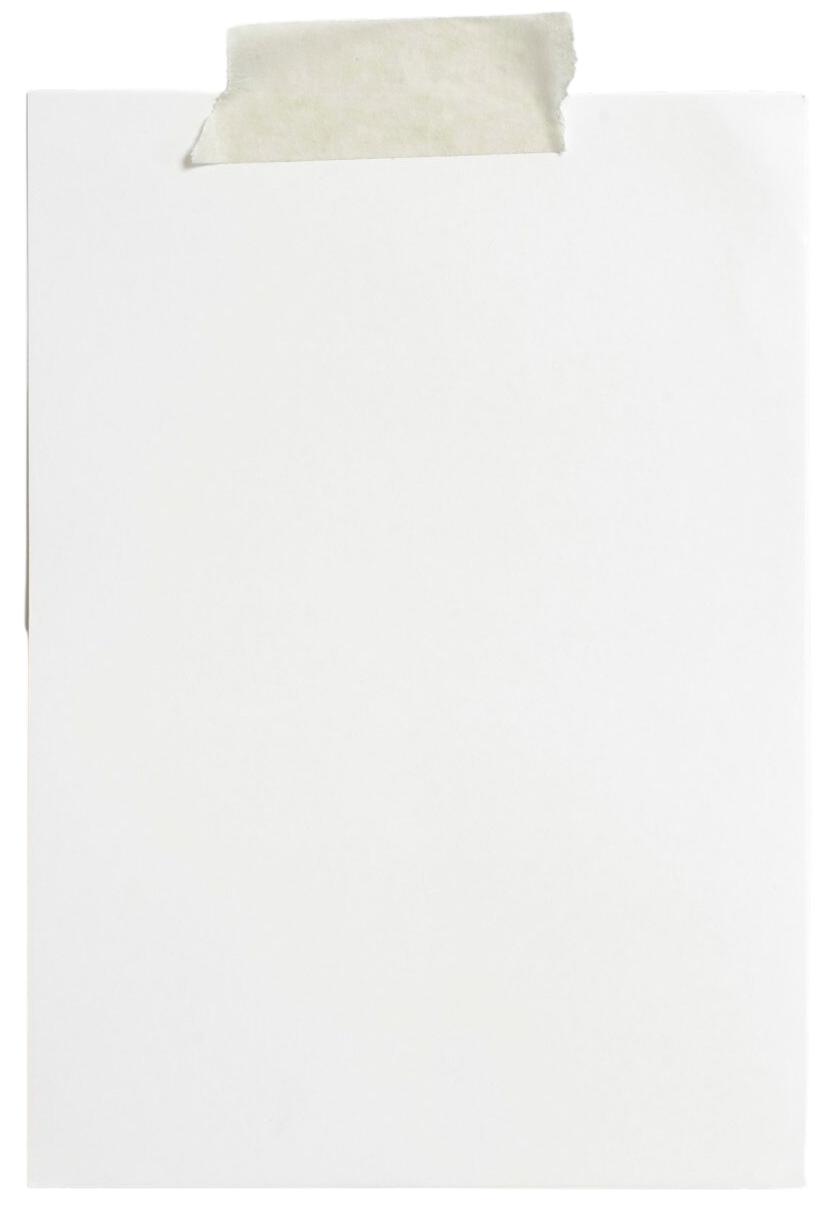
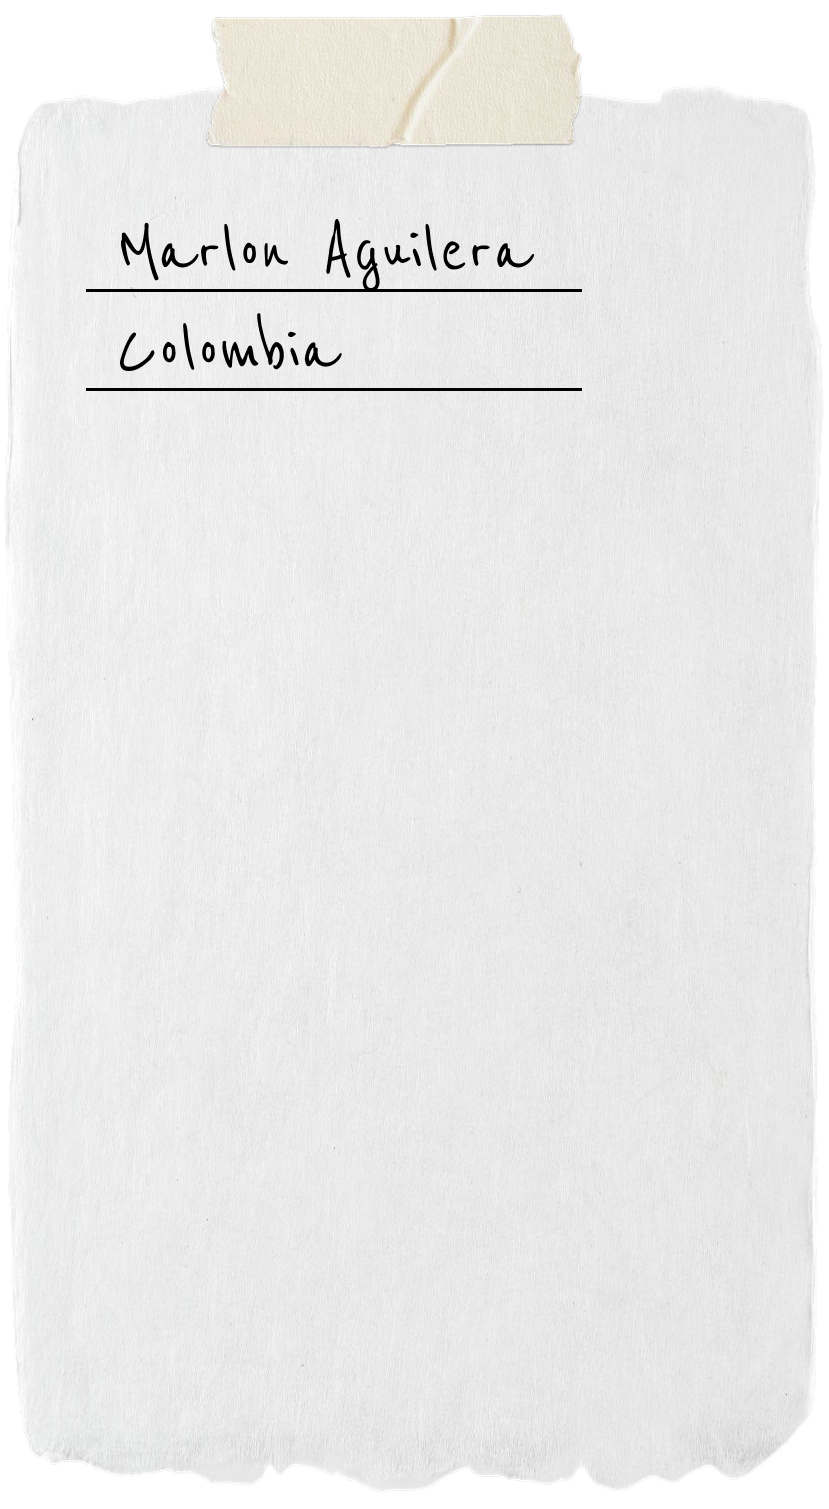
cambios pagina about e imagen con nombre

diff --git a/css/about.css b/css/about.css
@@ -12,19 +12,14 @@
 }
 
 .h2 {
-  margin-top: 60px;
+  margin-top: 40px;
 }
-/* .mi-video {
-  position: absolute;
-  width: 70px;
-  z-index: 1;
-} */
 .mi-gif {
   position: absolute;
   width: 70px;
-  z-index: 1;
+  z-index: 2;
   left: 50%;
-  top: 22%;
+  top: 19%;
   transform: translate(-50%, 0%);
 }
 
@@ -46,38 +41,88 @@
   background-image: url(../img/papel-cinta-vertical.png);
   background-repeat: no-repeat;
   background-position: center;
-  background-size: 106% 100%;
+  background-size: 100% 100%;
   position: absolute;
   bottom: 0px;
-  height: 500px;
+  height: 550px;
   display: flex;
   /* transform: translateY(-160px); */
-  align-items: center;
+  justify-content: center;
+  align-items: end;
 }
 
 .column2 p{
-  padding: 0px 30px;
-  padding-top: 50px;
+  position: relative;
+  width: 80%;
+  bottom: 50px;
+  /* padding-top: 40px; */
+}
+
+footer{
+  margin-top: 50px;
 }
 
 /* RESPONSIVE */
-@media (min-width: 1024px) {
-  .content h2 {
-    margin-top: 80px;
-  }
-  .container {
-    flex-direction: row;
-    align-items: center;
-    gap: 50px;
+@media (min-width: 768px) {
+  .mi-gif {
+    width: 6rem;
+    top: 22%;
   }
   .container img {
+    width: auto;
+    height: 100vh;
+  }
+  .column2{
+    background-image: url(../img/papel-cinta-horizontal-t.png);
+    background-size: 90% 90%;
+    bottom: 50px;
+    /* align-items: end; */
+  }
+  .column2 p {
+    width: 75%;
+    bottom: 120px;
+  }
+  footer{
+    margin-top: 0px;
+  }
+}
+
+@media (min-width: 1024px) {
+  .container {
+    flex-direction: row;
     height: auto;
+    /* align-items: center; */
+    /* gap: 50px; */
+  }
+  .container img {
+    width: 100%;
+    height: 100%;
   }
   .column1 {
     flex: 1;
   }
-  .column2 {
-    flex: 1;
+   .column2{
+    position: relative;
+    background-size: contain;
+    /* background-size: 100% 90%; */
+    height: auto;
+    flex: 2;
+    bottom: 0px;
+  }
+  .column2 p {
+    width: 84%;
+  }
+}
+
+@media (min-width: 1280px) {
+  .column2{
+    align-items: center;
+    background-size: 90% 70%;
+  }
+  .column2 p {
+    top: 60px;
+    bottom: 0px;
+    width: 76%;
   }
 }
 

diff --git a/pages/about.html b/pages/about.html
@@ -62,7 +62,7 @@
         </div>
         <div class="column2">
           <p>
-            Soy Marlon Aguilera, técnico profesional en desarrollo de software y
+            Soy técnico profesional en desarrollo de software y
             estudiante en ingeniería de software y datos, tengo experiencia en
             la creación de sitios web atractivos y funcionales. Me especializo
             en HTML, CSS y JavaScript, he trabajado con CMS como Wordpress a

diff --git a/css/responsive.css b/css/responsive.css
@@ -20,7 +20,7 @@
   }
 
   h2 {
-    font-size: 2.7rem;
+    font-size: 5rem;
     margin-bottom: 40px;
   }
 
@@ -95,7 +95,7 @@
   }
 
   h2 {
-    font-size: 3.7rem;
+    /* font-size: 3.7rem; */
   }
 
   .grid-left,
